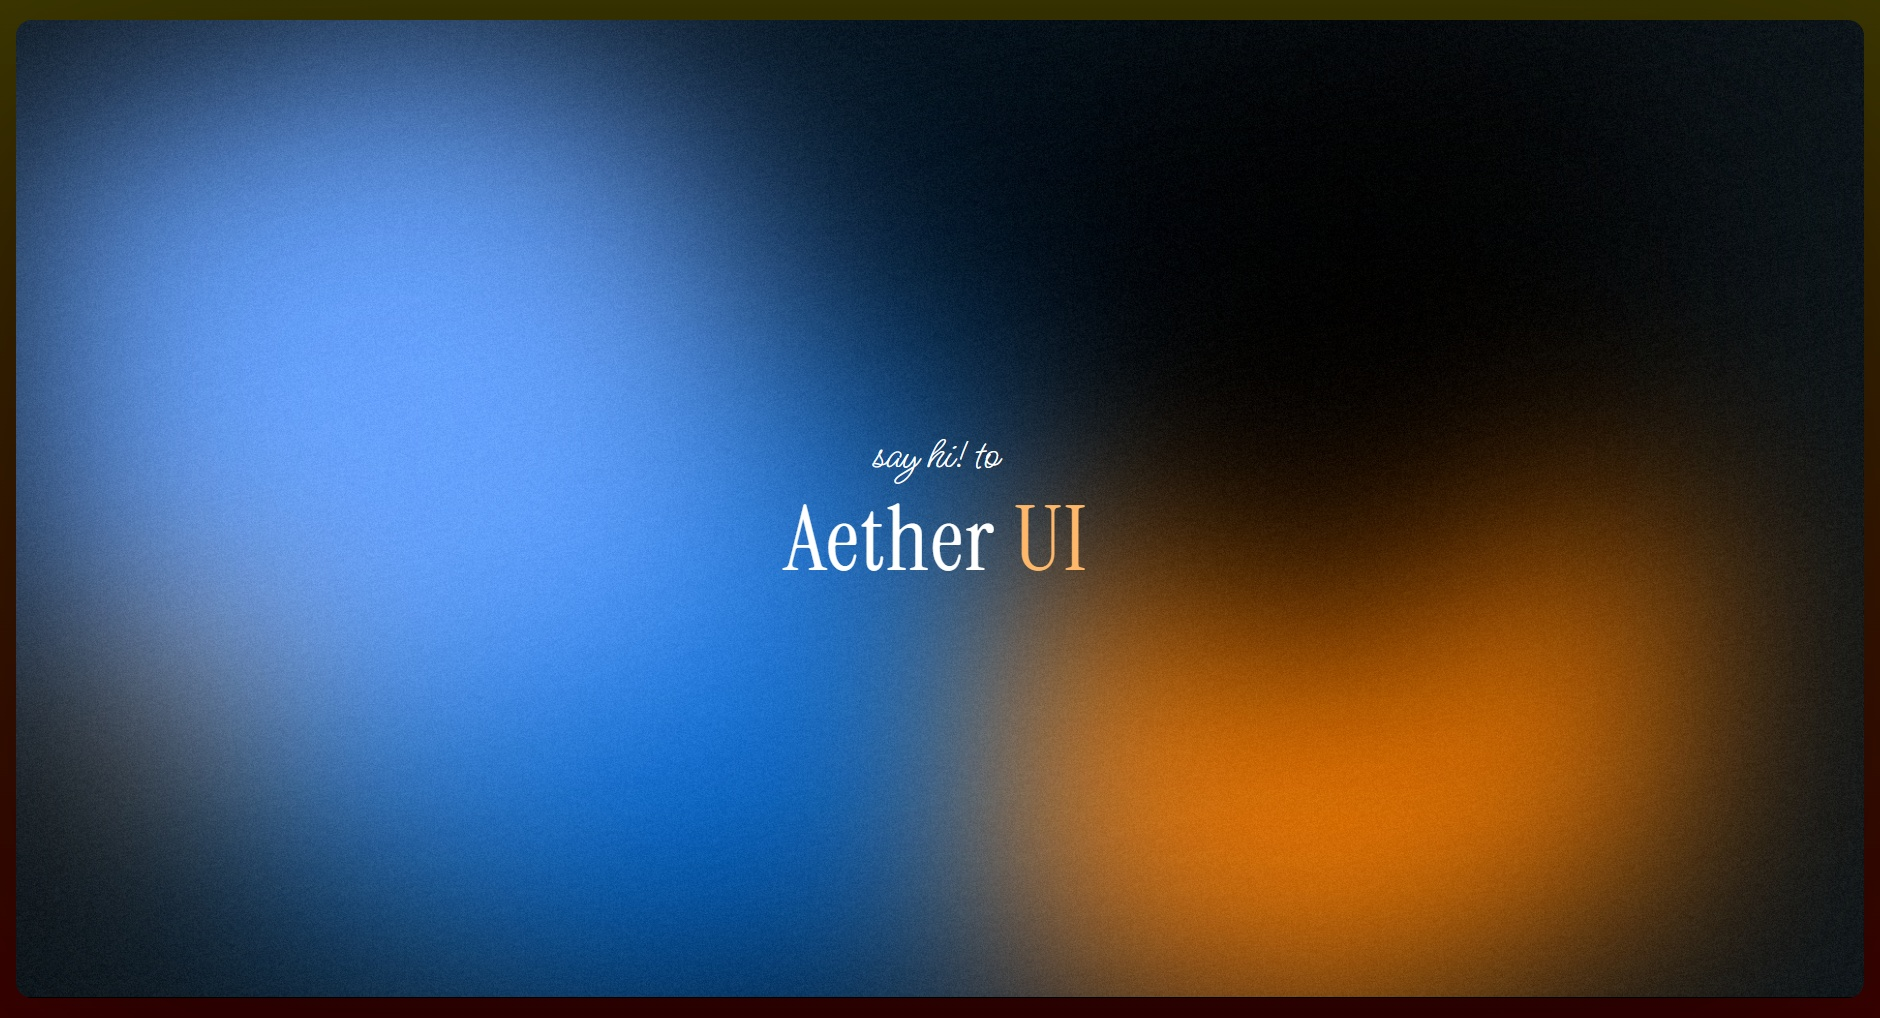
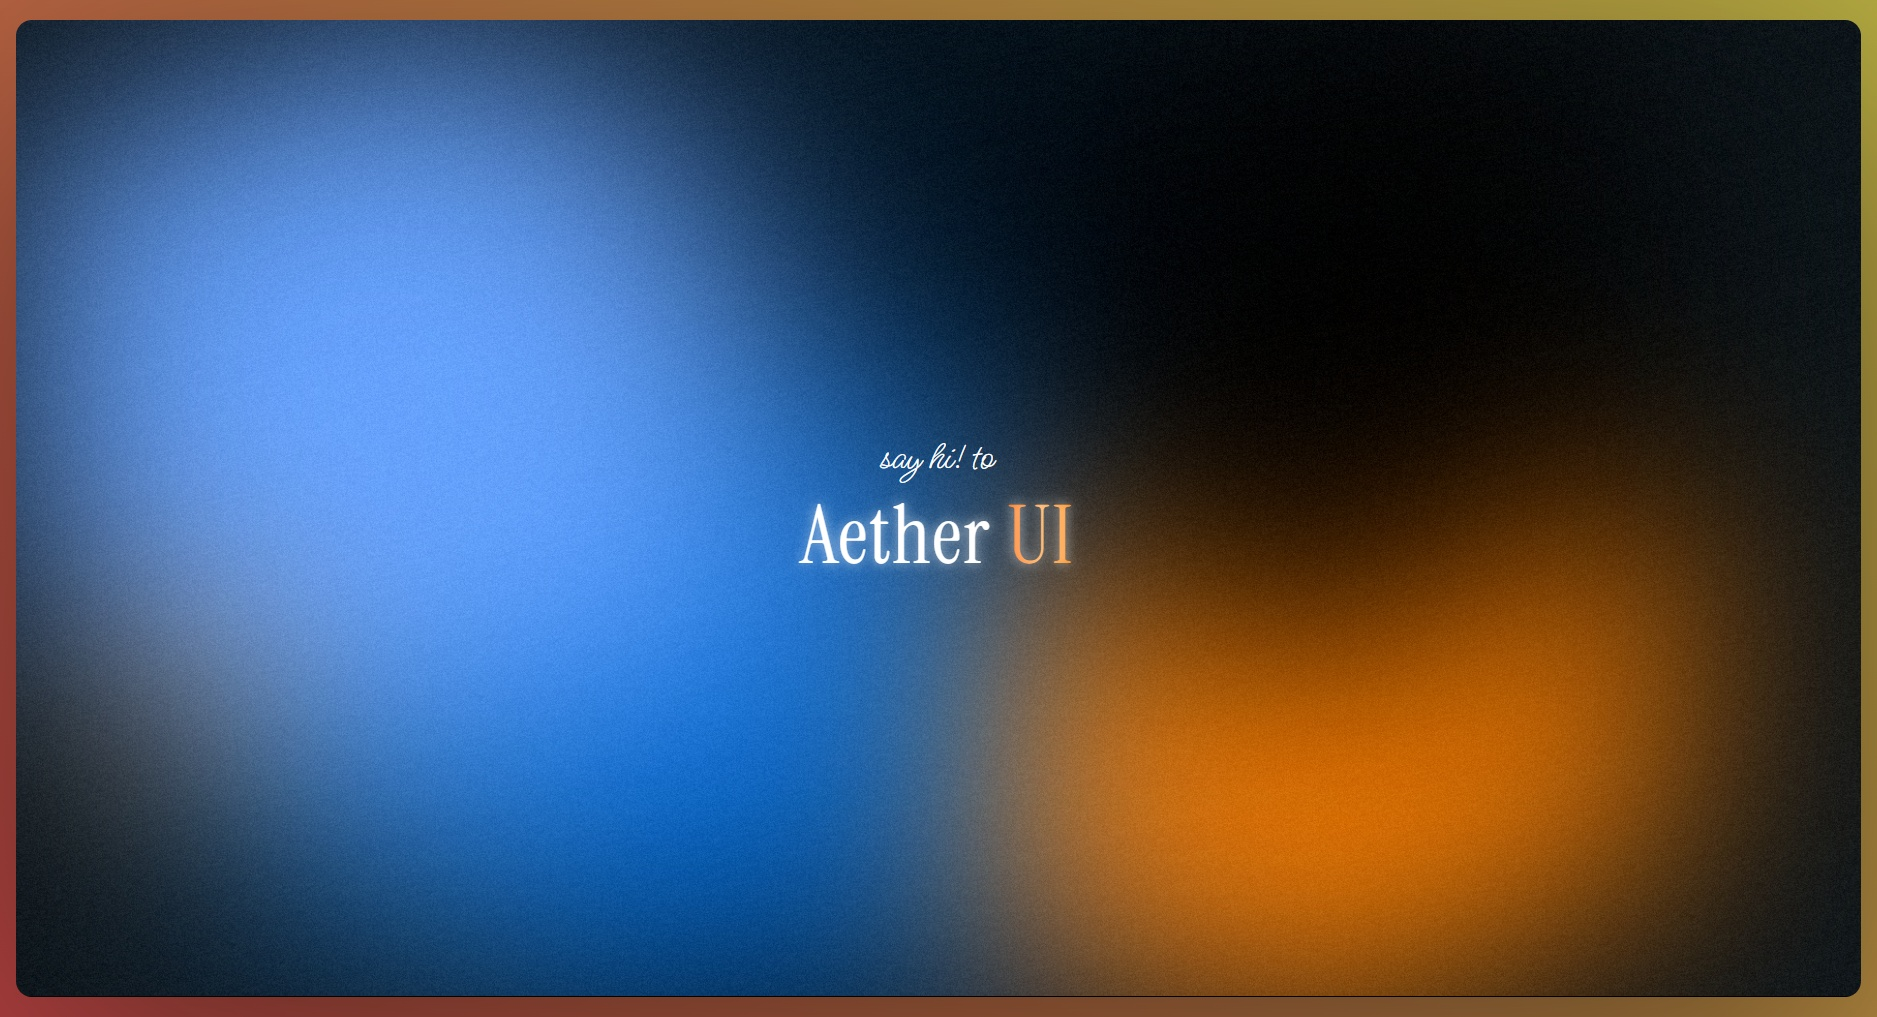
landing fixes

Changed region(s): [[0.0, 0.0, 1.0, 1.0], [0.4017, 0.4267, 0.5871, 0.5792]]

diff --git a/src/app/page.tsx b/src/app/page.tsx
@@ -1,11 +1,19 @@
+import Link from "next/link";
+
 export default function Home() {
   return (
-    <div className="h-screen flex justify-center flex-col items-center bg-img">
+    <div className="h-screen flex justify-center flex-col items-center bg-img gap-y-2">
       <h2 className="font-ms-madi text-3xl mb-2 text-white">say hi! to</h2>
 
-      <h1 className="text-6xl text-white tracking-wide font-instrument-serif ">
-        Aether <span className="text-orange-300 ">UI</span>
+      <h1 className="text-6xl text-shadow-glow  text-white tracking-wide font-instrument-serif ">
+        Aether <span className="text-gradient ">UI</span>
       </h1>
+
+      <Link href="/docs">
+        <button className=" cursor-pointer bg-gradient-to-r mt-2 from-orange-400 to-yellow-600  text-white text-2xl tracking-wider font-instrument-serif py-1 px-5 rounded-md shadow-md hover:shadow-lg hover:tracking-widest">
+          docs
+        </button>
+      </Link>
     </div>
   );
 }

diff --git a/src/app/globals.css b/src/app/globals.css
@@ -21,6 +21,18 @@
   }
 }
 
+@layer components {
+  .text-shadow-glow {
+    text-shadow: 0 0 8px rgba(255, 255, 255, 0.5), 0 0 12px rgba(255, 255, 255, 0.3);
+  }
+  .text-gradient{
+    background: linear-gradient(to right, #FF6600, #FFB366, #FF8000);
+    background-clip: text;
+    -webkit-background-clip: text;
+    -webkit-text-fill-color: transparent;
+  }
+}
+
 body {
   background: var(--background);
   color: var(--foreground);
@@ -32,3 +44,4 @@ body {
   background-size: cover;
   background-position: center;
 }
+
